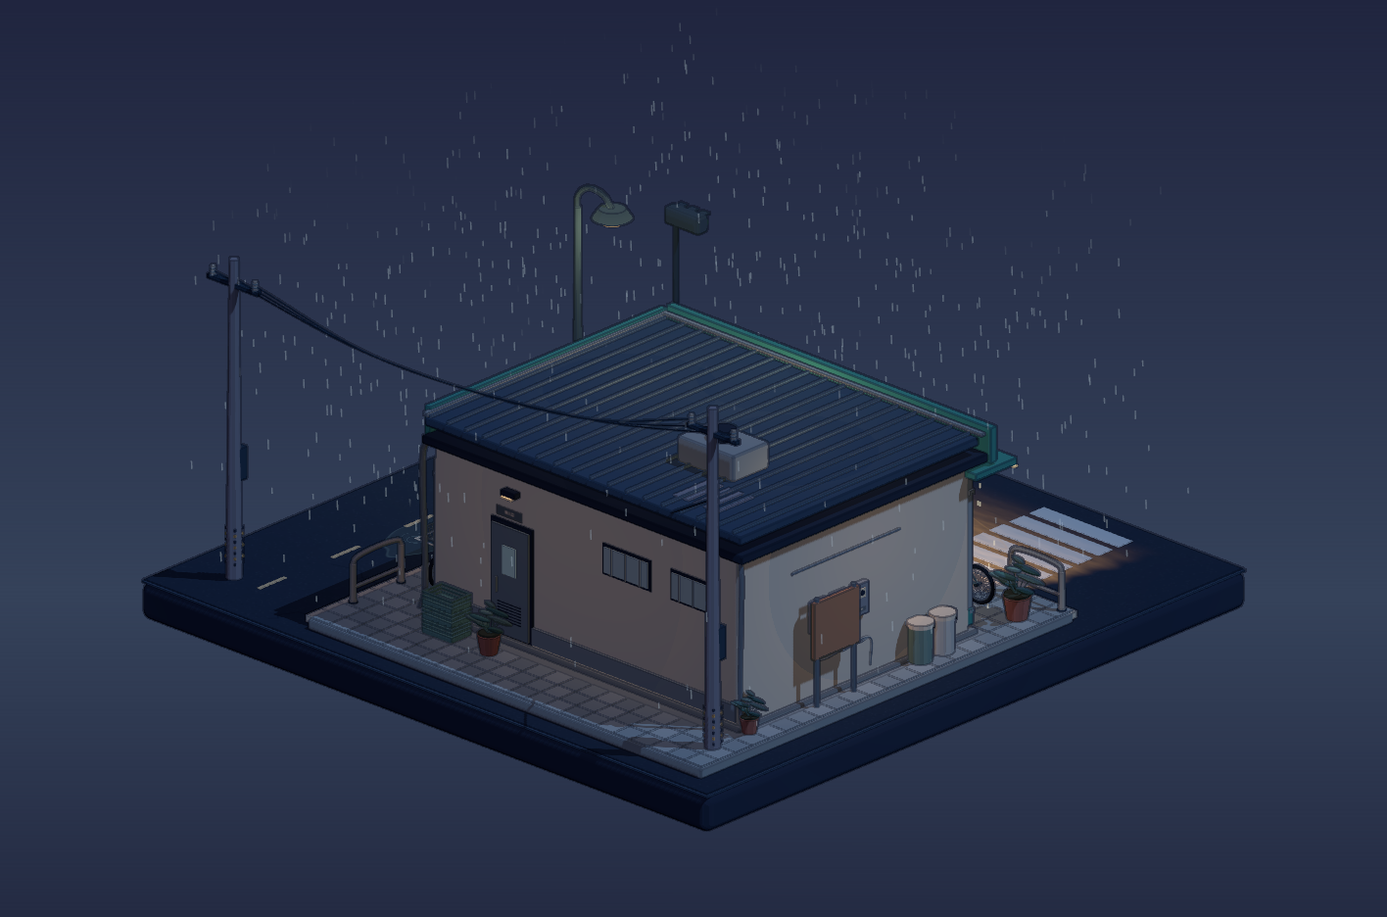
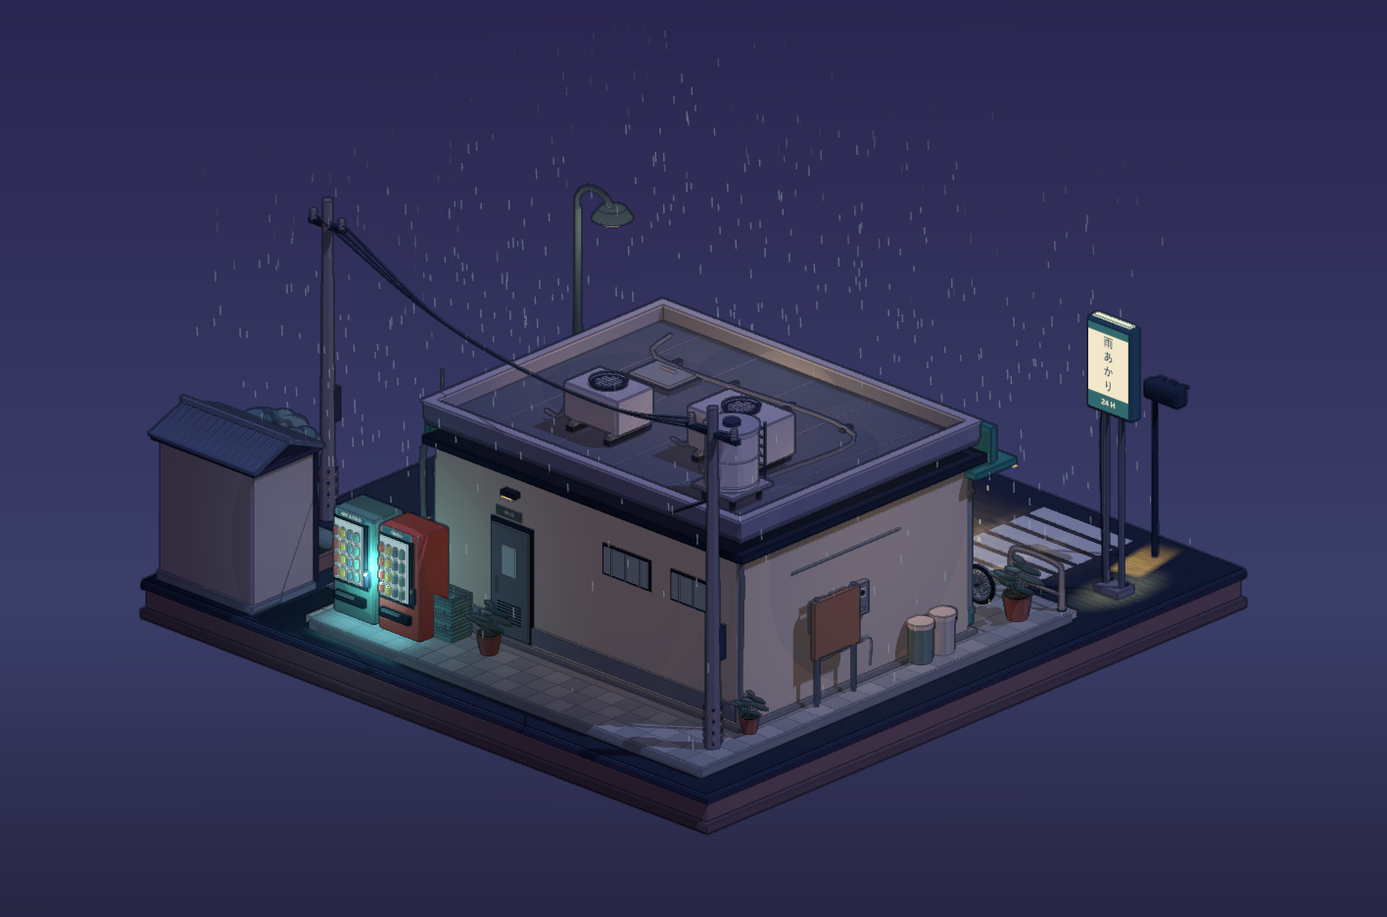
[codex] X-50 完成建模指导 4、5 与原四机位对比

diff --git a/apps/desktop/e2e/fixtures/rainy-konbini/street.js b/apps/desktop/e2e/fixtures/rainy-konbini/street.js
@@ -1,9 +1,20 @@
 import * as T from 'three';
+import { neighborhood } from './neighborhood.js';
 
 export function buildStreet(c) {
   const {root,box,cylinder,sphere,tube,rod,group,toon,glow,label,poster,mesh,canvasTexture}=c;
   const iron=toon('#293e50'), steel=toon('#6b868d'), cream=toon('#c4c4ad'), yellow=toon('#c8a668'), red=toon('#b7594e'), mint=toon('#60958b'), dark=toon('#182632'), rubber=toon('#1a2533');
-  const base=group('square-collectible-base');box(14,.72,14,0,-.36,0,toon('#263448'),base,.18);
+  const base=group('square-collectible-base');
+  box(14,.20,14,0,-.62,0,toon('#62575e'),base,.12);
+  box(13.86,.38,13.86,0,-.33,0,toon('#7a686b'),base,.065);
+  box(13.98,.14,13.98,0,-.07,0,toon('#30374e'),base,.065);
+  for(const z of [-6.94,6.94])box(13.80,.025,.025,0,-.54,z,toon('#a18b85'),base,.006);
+  for(const x of [-6.94,6.94])box(.025,.025,13.80,x,-.54,0,toon('#a18b85'),base,.006);
+  for(let i=0;i<28;i++){
+    const x=-6.55+i*.48,y=-.23-(i%3)*.075;
+    box(.10+(i%4)*.025,.033,.025,x,y,6.938,toon(i%2?'#9b8a86':'#5d5864'),base,.012);
+    box(.025,.033,.10+(i%4)*.025,6.938,y,x,toon(i%2?'#8e7c79':'#5d5864'),base,.012);
+  }
   box(13.94,.045,13.94,0,.01,0,toon('#33495d'),base,.06);
   box(13.7,.035,.055,0,-.21,6.97,toon('#607a8b'),base,.01);
   const asphalt=canvasTexture(1024,1024,(g,w,h)=>{
@@ -14,7 +25,7 @@ export function buildStreet(c) {
   const roadmat=new T.MeshToonMaterial({map:asphalt,color:'#aebccb',gradientMap:toon('#ffffff').gradientMap});
   box(13.88,.025,13.88,0,.044,0,roadmat,root,0);
   box(9.7,.21,9.65,-1.55,.14,-1.7,toon('#819292'),root,.055);
-  const pave=[toon('#879b9b'),toon('#91a4a3'),toon('#7f9395')];
+  const pave=[toon('#879b9b'),toon('#91a4a3'),toon('#7f9395')];pave.forEach(mat=>mat.userData.inkWeight=.08);
   for(let ix=0;ix<22;ix++)for(let iz=0;iz<22;iz++){
     const x=-6.15+ix*.438,z=-6.26+iz*.438;
     if(x>-5.85&&x<1.96&&z>-4.96&&z<1.45)continue;
@@ -28,10 +39,11 @@ export function buildStreet(c) {
     for(let k=0;k<4;k++)box(.024,.012,.27,-.105+k*.07,.017,0,toon('#ddc482'),g,.004);
   }
   for(let i=0;i<6;i++)box(2.2,.009,.38,-3.6,.064,3.65+i*.52,toon('#b9ccc8'),root,.012);
-  for(let i=0;i<6;i++)box(.085,.009,.70,5.15,.065,-5.5+i*1.9,toon('#c4b68a'),root,.008);
+  for(let i=0;i<5;i++)box(.085,.009,.70,5.15,.065,-3.7+i*1.9,toon('#c4b68a'),root,.008);
   const park=group('parking-bay',4.05,.066,-1.1);
   for(const x of [-.6,.6])box(.035,.008,2.4,x,0,0,cream,park,0);box(1.25,.008,.035,0,0,-1.2,cream,park,0);
   const p=label('P',.45,.55,0,.008,0,{parent:park,font:110,bg:'#364554',fg:'#c4c4ad'});p.rotation.x=-Math.PI/2;
+  for(const x of [-.34,.34]){box(.43,.11,.15,x,.045,-.94,cream,park,.035);box(.15,.013,.13,x,.106,-.94,yellow,park,.006);}
   // Recessed drainage slots and concentric iron manhole rings.
   for(let i=0;i<8;i++){
     const x=-5.4+i*1.02;box(.76,.025,.16,x,.071,3.34,dark,root,.01);for(let k=0;k<12;k++)box(.017,.016,.15,x-.34+k*.061,.087,3.34,steel,root,0);
@@ -48,8 +60,9 @@ export function buildStreet(c) {
     tube([[-.62,.75,0],[-.58,.86,0],[.58,.86,0],[.62,.75,0]],.045,cream,g);
     rod([-.62,.32,0],[.62,.32,0],.035,cream,g);
   }
-  const vending=group('illuminated-vending-machine',2.48,.27,.11);vending.rotation.y=.10;
-  box(1.03,2.05,.78,0,1.03,0,red,vending,.065);box(.84,1.29,.022,-.035,1.29,.405,dark,vending,.02);
+  function vendingMachine(x,index){
+  const vending=group('illuminated-vending-machine',x,.27,-5.62);vending.rotation.y=Math.PI;
+  box(1.03,2.05,.78,0,1.03,0,index?mint:red,vending,.065);box(.84,1.29,.022,-.035,1.29,.405,dark,vending,.02);
   box(.71,1.15,.015,-.09,1.30,.425,glow('#badce0',.72),vending,.012);
   for(let row=0;row<4;row++)for(let col=0;col<4;col++){
     const x=-.35+col*.17,y=.88+row*.26;
@@ -58,8 +71,10 @@ export function buildStreet(c) {
   }
   box(.73,.17,.12,-.04,.40,.43,dark,vending,.025);box(.44,.05,.04,-.1,.47,.50,steel,vending,.007);
   box(.13,.31,.05,.40,.92,.45,iron,vending,.01);cylinder(.03,.03,.035,.4,1.02,.49,yellow,vending,16).rotation.x=Math.PI/2;
-  label('つめたい',.74,.17,-.03,1.99,.414,{parent:vending,bg:'#295f70',fg:'#e6f2da',font:105,lit:true});
-  const vendingLight=new T.PointLight('#8cdbdf',3,5,1.9);vendingLight.position.set(2.5,1.4,1.2);root.add(vendingLight);
+  label(index?'HOT & COLD':'つめたい',.74,.17,-.03,1.99,.414,{parent:vending,bg:'#295f70',fg:'#e6f2da',font:105,lit:true});
+  }
+  vendingMachine(1.54,0);vendingMachine(2.66,1);
+  const vendingLight=new T.PointLight('#8cdbdf',3,5,1.9);vendingLight.position.set(2.1,1.4,-6.2);root.add(vendingLight);
   // Bins, umbrellas and a detailed bicycle.
   const bins=group('recycling-bins',-5.95,.28,.20);
   for(let i=0;i<2;i++){cylinder(.23,.22,.7,0,.35,-i*.57,toon(i?'#66877e':'#aab5ac'),bins,24);cylinder(.25,.25,.09,0,.73,-i*.57,cream,bins,24);box(.25,.085,.02,0,.63,.235-i*.57,dark,bins,.02);label(i?'缶':'PET',.16,.12,0,.44,.229-i*.57,{parent:bins,font:130});}
@@ -119,22 +134,23 @@ export function buildStreet(c) {
   cylinder(.25,.38,.19,-.85,4.47,0,iron,lamp,32);cylinder(.29,.22,.10,-.85,4.34,0,glow('#ffcf84',2.3),lamp,32);
   const lampLight=new T.PointLight('#ffd38d',12,9,1.8);lampLight.position.set(5.05,4.1,3.2);root.add(lampLight);
   // Two poles and sagging wires stay within the square footprint.
-  for(const [x,z,h]of[[-5.9,-5.7,6.8],[5.8,-5.8,6.2]]){
+  for(const [x,z,h,span]of[[-5.9,-5.7,6.8,1.25],[6.4,-2.75,6.2,.84]]){
     const g=group('utility-pole',x,.08,z);cylinder(.09,.15,h,0,h/2,0,toon('#777e87'),g,24);
-    box(1.25,.09,.12,0,h-.50,0,iron,g,.009);
-    for(const sx of [-.52,0,.52]){cylinder(.045,.045,.20,sx,h-.38,0,cream,g,14);for(let k=0;k<3;k++)cylinder(.065,.065,.025,sx,h-.46+k*.065,0,steel,g,16);}
+    box(span,.09,.12,0,h-.50,0,iron,g,.009);
+    for(const sx of [-span*.416,0,span*.416]){cylinder(.045,.045,.20,sx,h-.38,0,cream,g,14);for(let k=0;k<3;k++)cylinder(.065,.065,.025,sx,h-.46+k*.065,0,steel,g,16);}
     box(.25,.65,.23,0,2.2,.11,iron,g,.025);
     for(let k=0;k<7;k++)box(.25,.055,.24,0,.3+k*.11,.01,toon(k%2?'#d3aa62':'#334052'),g,.005);
   }
-  for(let i=0;i<3;i++)tube([[-6.42+i*.52,6.50,-5.7],[-2.8,5.75,-5.75],[2.3,5.4,-5.77],[5.28+i*.52,5.90,-5.8]],.014,iron,root,48);
+  for(let i=0;i<3;i++)tube([[-6.42+i*.52,6.50,-5.7],[-2.8,5.75,-5.1],[2.3,5.4,-3.9],[6.05+i*.35,5.90,-2.75]],.014,iron,root,48);
   tube([[-5.9,5.1,-5.7],[-4.8,4.45,-5.25],[-4.1,4.03,-4.9]],.021,iron,root,24);
-  const sign=group('street-name-sign',5.8,3.82,-5.75);label('灯町三丁目',1.20,.34,-.2,0,.16,{parent:sign,font:110,bg:'#365d78',fg:'#dfebdf'});
-  const stop=group('stop-sign',3.10,.26,2.05);cylinder(.028,.035,1.9,0,.95,0,steel,stop,16);
+  const sign=group('street-name-sign',6.35,3.82,-2.70);label('灯町三丁目',1.20,.34,-.2,0,.16,{parent:sign,font:110,bg:'#365d78',fg:'#dfebdf'});
+  const stop=group('stop-sign',6.48,.07,.30);cylinder(.028,.035,1.9,0,.95,0,steel,stop,16);
   const triangle=new T.Shape();triangle.moveTo(0,-.32);triangle.lineTo(.36,.27);triangle.lineTo(-.36,.27);triangle.closePath();mesh(new T.ShapeGeometry(triangle),red,[0,1.95,.03],stop);
   label('止まれ',.39,.17,0,1.98,.038,{parent:stop,font:130,bg:'#b7594e',fg:'#fff0d1'});
-  const traffic=group('traffic-signal',6.08,.07,5.93);cylinder(.048,.06,3.32,0,1.66,0,iron,traffic,20);
+  const traffic=group('traffic-signal',-5.45,.07,6.22);cylinder(.048,.06,3.32,0,1.66,0,iron,traffic,20);
   box(.87,.35,.29,-.25,3.25,0,iron,traffic,.1);
   const signalMats=['#629e93','#ba9751','#c85d5b'].map(x=>glow(x,.55));
   for(let i=0;i<3;i++){const o=cylinder(.105,.105,.035,-.52+i*.27,3.25,.17,signalMats[i],traffic,24);o.rotation.x=Math.PI/2;box(.19,.04,.16,-.52+i*.27,3.39,.17,iron,traffic,.01);}
+  neighborhood(c);
   return {signalMats,lampLight,vendingLight};
 }

diff --git a/apps/desktop/e2e/fixtures/rainy-konbini/neighborhood.js b/apps/desktop/e2e/fixtures/rainy-konbini/neighborhood.js
@@ -1,0 +1,60 @@
+import * as T from 'three';
+
+export function neighborhood(c){
+  const {root,box,cylinder,rod,tube,mesh,group,toon,glow,canvasTexture}=c;
+  const wood=toon('#7c625e'),dark=toon('#34334b'),steel=toon('#66788a'),stone=toon('#78848d');
+  // A cropped neighbouring home gives the back corner a readable second layer.
+  const home=group('neighbor-house-corner',5.55,.07,-6.0);
+  box(2.4,.18,1.68,0,.09,0,stone,home,.04);
+  box(2.33,2.57,1.56,0,1.46,0,toon('#a69a9a'),home,.025);
+  for(let i=0;i<12;i++)box(.17,.75,.055,-1.05+i*.19,.56,.80,wood,home,.008);
+  for(const x of [-1.18,1.18])box(.09,2.64,.075,x,1.48,.81,dark,home,.012);
+  box(1.32,1.08,.095,-.12,1.83,.82,wood,home,.018);
+  box(1.15,.89,.025,-.12,1.83,.878,glow('#f6d59f',.80),home,.008);
+  for(const x of [-.69,-.12,.45])box(.035,.97,.035,x,1.83,.90,dark,home,.003);
+  for(const y of [1.40,1.82,2.26])box(1.21,.035,.035,-.12,y,.90,dark,home,.003);
+  for(let i=0;i<10;i++)box(1.12,.016,.018,-.12,1.45+i*.077,.915,toon('#c3ab91',.10),home,0);
+  box(1.43,.09,.23,-.12,1.26,.91,wood,home,.012);
+  box(2.55,.11,1.78,0,2.78,0,dark,home,.02);
+  for(const side of [-1,1]){
+    const roof=box(2.64,.08,1.02,0,2.99,side*.43,toon('#52647a'),home,.025);roof.rotation.x=side*.36;
+    for(let i=0;i<15;i++)tube([[-1.22+i*.174,2.83,side*.91],[-1.22+i*.174,3.02,side*.46],[-1.22+i*.174,3.21,0]],.018,steel,home,8);
+  }
+  box(2.71,.10,.12,0,3.22,0,steel,home,.028);
+  tube([[1.22,2.73,.80],[1.28,2.6,.83],[1.28,.16,.83]],.034,steel,home);
+  // Low boundary, stepping stones and planted corner leave the road usable.
+  const garden=group('neighbor-garden',5.80,.07,-4.43);
+  box(1.91,.17,1.17,0,.085,0,stone,garden,.04);
+  box(1.73,.04,1.00,0,.19,0,toon('#3d4548'),garden,.03);
+  for(const x of [-.94,.94])box(.12,.29,1.18,x,.17,0,wood,garden,.016);
+  box(1.94,.29,.12,0,.17,.54,wood,garden,.016);
+  for(let i=0;i<5;i++)box(.35,.035,.32,4.17,.08,-4.8+i*.33,toon(i%2?'#91979e':'#788894'),root,.045);
+  for(let i=0;i<13;i++){
+    const x=4.62+i*.17;box(.105,.76,.07,x,.48,-5.01,wood,root,.018);
+  }
+  for(const y of [.28,.67])box(2.19,.055,.08,5.64,y,-5.055,dark,root,.01);
+  const tree=group('rainy-neighborhood-tree',.16,.22,-.05,garden);
+  const bark=toon('#6c5855');tube([[0,0,0],[.05,.72,.02],[-.09,1.28,0],[.02,1.95,.04]],.082,bark,tree,18);
+  for(let i=0;i<7;i++){const a=i*2.4;rod([0,.82+i*.10,0],[Math.cos(a)*.42,1.75+i*.09,Math.sin(a)*.35],.027,bark,tree);}
+  const leaves=['#4e7779','#6a8c87','#577e83','#759995'].map(color=>toon(color));
+  for(let i=0;i<48;i++){
+    const a=i*2.3999,r=.18+.48*Math.sqrt((i%13)/13),y=1.93+Math.sin(i*1.7)*.34;
+    const leaf=mesh(new T.SphereGeometry(.23,18,12),leaves[i%4],[Math.cos(a)*r,y,Math.sin(a)*r*.72],tree);
+    leaf.scale.set(1,.72,1.18);leaf.rotation.y=a;
+  }
+  for(let i=0;i<9;i++){const bush=mesh(new T.SphereGeometry(.23,16,12),leaves[(i+1)%4],[-.68+i*.16,.42,.28],garden);bush.scale.set(1,.8,.85);}
+  // A slim illuminated pylon balances the utility poles without covering glass.
+  const pylon=group('convenience-store-pylon',-6.03,.07,4.55);
+  box(.62,.15,.46,0,.075,0,stone,pylon,.055);
+  for(const x of [-.19,.19]){box(.085,3.82,.085,x,1.99,0,steel,pylon,.018);cylinder(.05,.05,.035,x,.17,.12,dark,pylon,16);}
+  box(1.12,1.80,.28,0,4.38,0,toon('#386a78'),pylon,.07);
+  const face=canvasTexture(512,896,(g,w,h)=>{
+    g.fillStyle='#f3e7c9';g.fillRect(0,0,w,h);g.fillStyle='#32696d';g.fillRect(0,0,w,78);g.fillRect(0,h-170,w,170);
+    g.fillStyle='#315567';g.textAlign='center';g.textBaseline='middle';g.font='700 126px "Yu Gothic",Meiryo,sans-serif';
+    [...'雨あかり'].forEach((ch,i)=>g.fillText(ch,w/2,157+i*155));
+    g.fillStyle='#f3e7c9';g.font='700 76px sans-serif';g.fillText('24 H',w/2,h-82);
+  });
+  for(const side of [-1,1]){const panel=mesh(new T.PlaneGeometry(.98,1.64),new T.MeshBasicMaterial({map:face,toneMapped:false}),[0,4.38,side*.148],pylon);if(side<0)panel.rotation.y=Math.PI;}
+  box(.93,.04,.16,0,5.30,0,glow('#d9e7cf',1.05),pylon,.01);
+  tube([[.22,.15,-.05],[.22,3.55,-.05],[0,3.63,-.12]],.014,dark,pylon);
+}

diff --git a/apps/desktop/e2e/fixtures/rainy-konbini/roof.js b/apps/desktop/e2e/fixtures/rainy-konbini/roof.js
@@ -1,0 +1,38 @@
+import * as T from 'three';
+
+export function buildRoof(c,parent){
+  const {box,cylinder,rod,tube,mesh,group,toon,label}=c;
+  const roof=group('flat-roof-services',-1.95,4.02,-1.84,parent);
+  const concrete=toon('#727f99'),cap=toon('#9ba6b5'),iron=toon('#34425a'),steel=toon('#8595a4'),dark=toon('#25344b');
+  box(7.80,.16,6.18,0,0,0,toon('#526175'),roof,.045);
+  for(const z of [-3.03,3.03]){box(7.84,.31,.15,0,.19,z,concrete,roof,.025);box(7.9,.055,.21,0,.37,z,cap,roof,.018);}
+  for(const x of [-3.84,3.84]){box(.15,.31,5.96,x,.19,0,concrete,roof,.025);box(.21,.055,5.99,x,.37,0,cap,roof,.018);}
+  for(let i=0;i<5;i++)box(.028,.006,5.8,-2.9+i*1.42,.084,0,toon('#64718a'),roof,0);
+  // Two condensers have visible feet, fan blades, protective grilles and fins.
+  for(const [x,z,w,h,d]of[[-1.6,-.65,1.65,.80,1.1],[1.05,-1.3,1.35,.70,.94]]){
+    const unit=group('roof-condenser',x,.10,z,roof);
+    for(const sx of [-w*.34,w*.34]){box(.15,.10,d+.15,sx,.05,0,dark,unit,.014);box(.12,.09,d+.09,sx,.13,0,steel,unit,.008);}
+    box(w,h,d,0,.20+h/2,0,toon('#a3b1bc'),unit,.045);
+    for(let i=0;i<12;i++)box(w*.78,.022,.026,0,.29+i*(h-.15)/12,d/2+.018,dark,unit,.005);
+    for(const sx of [-w*.44,w*.44])box(.034,h*.78,.032,sx,.20+h/2,d/2+.026,steel,unit,.004);
+    cylinder(.34,.34,.025,0,h+.22,0,dark,unit,48);
+    for(let i=0;i<7;i++){const a=i*Math.PI*2/7;const blade=box(.13,.018,.25,Math.sin(a)*.12,h+.245,Math.cos(a)*.12,steel,unit,.025);blade.rotation.y=a+.45;}
+    cylinder(.075,.075,.035,0,h+.26,0,cap,unit,24);
+    const ring=mesh(new T.TorusGeometry(.34,.018,8,48),iron,[0,h+.28,0],unit);ring.rotation.x=Math.PI/2;
+    for(let i=-3;i<=3;i++){const half=Math.sqrt(.32*.32-(i*.08)**2);rod([-half,h+.29,i*.08],[half,h+.29,i*.08],.007,iron,unit);}
+    label('室外機',.34,.12,w*.26,.32,d/2+.034,{parent:unit,font:100,bg:'#627485',fg:'#dbe4e0'});
+    tube([[w/2,.48,0],[w/2+.20,.48,0],[w/2+.20,.12,-.35],[w/2+.55,.12,-.35]],.034,cap,unit);
+  }
+  const tank=group('roof-water-tank',-2.65,.10,-2.0,roof);
+  for(const x of [-.34,.34])for(const z of [-.34,.34])box(.08,.28,.08,x,.14,z,iron,tank,.008);
+  box(1.04,.08,1.04,0,.28,0,steel,tank,.025);
+  cylinder(.48,.48,1.08,0,.86,0,toon('#b3bfc5'),tank,48);
+  cylinder(.51,.51,.08,0,1.42,0,cap,tank,48);cylinder(.16,.16,.07,0,1.49,0,iron,tank,24);
+  for(const y of [.40,.89,1.36]){const ring=mesh(new T.TorusGeometry(.484,.016,8,48),steel,[0,y,0],tank);ring.rotation.x=Math.PI/2;}
+  tube([[.42,.48,0],[.70,.48,0],[.77,.32,0],[.77,.10,1.8],[2.55,.10,1.8]],.044,cap,tank);
+  for(const x of [-.28,.28])rod([x,.10,.56],[x,1.38,.56],.017,iron,tank);
+  for(let i=0;i<7;i++)rod([-.28,.18+i*.18,.57],[.28,.18+i*.18,.57],.014,iron,tank);
+  tube([[-2.5,.14,-.9],[-2.5,.14,1.35],[-1.8,.14,1.65],[2.8,.14,1.65],[3.1,.14,2.45]],.032,steel,roof);
+  for(const x of [-2,-.6,.8,2.2])box(.12,.10,.25,x,.10,1.65,iron,roof,.01);
+  const hatch=group('roof-access-hatch',1.9,.12,1.0,roof);box(1.1,.11,.85,0,0,0,iron,hatch,.035);box(.98,.05,.72,0,.075,0,toon('#768997'),hatch,.02);rod([-.18,.12,.15],[.18,.12,.15],.022,cap,hatch);
+}

diff --git a/apps/desktop/e2e/fixtures/rainy-konbini/main.js b/apps/desktop/e2e/fixtures/rainy-konbini/main.js
@@ -10,7 +10,7 @@ import { buildStreet } from './street.js';
 import { weather } from './weather.js';
 import { ToonOutlinePass } from './outline.js';
 
-const scene=new T.Scene();scene.fog=new T.Fog('#263348',30,68);
+const scene=new T.Scene();scene.fog=new T.Fog('#343052',30,68);
 const renderer=new T.WebGLRenderer({antialias:true,powerPreference:'high-performance'});
 renderer.setPixelRatio(Math.min(devicePixelRatio,1.5));renderer.setSize(innerWidth,innerHeight);
 renderer.shadowMap.enabled=true;renderer.shadowMap.type=T.PCFSoftShadowMap;
@@ -20,9 +20,9 @@ const camera=new T.OrthographicCamera(-10,10,9,-9,.1,100);camera.position.set(18
 const controls=new OrbitControls(camera,renderer.domElement);controls.target.set(0,2.30,0);controls.enableDamping=true;controls.dampingFactor=.075;
 controls.minZoom=.65;controls.maxZoom=4;controls.minPolarAngle=.22;controls.maxPolarAngle=1.47;controls.maxTargetRadius=7;controls.rotateSpeed=.65;controls.zoomSpeed=.8;controls.panSpeed=.7;controls.update();
 const c=craft(scene);
-scene.background=c.canvasTexture(2,512,(g,w,h)=>{const gradient=g.createLinearGradient(0,0,0,h);gradient.addColorStop(0,'#20253f');gradient.addColorStop(.65,'#35425a');gradient.addColorStop(1,'#242b43');g.fillStyle=gradient;g.fillRect(0,0,w,h);});
-const hemi=new T.HemisphereLight('#9facdf','#242c43',.60);scene.add(hemi);
-const moon=new T.DirectionalLight('#9db8eb',1.35);moon.position.set(-7,13,5);moon.castShadow=true;
+scene.background=c.canvasTexture(2,512,(g,w,h)=>{const gradient=g.createLinearGradient(0,0,0,h);gradient.addColorStop(0,'#2a2550');gradient.addColorStop(.65,'#3b3f6a');gradient.addColorStop(1,'#272543');g.fillStyle=gradient;g.fillRect(0,0,w,h);});
+const hemi=new T.HemisphereLight('#b2a5e5','#312641',.60);scene.add(hemi);
+const moon=new T.DirectionalLight('#aba9e5',1.35);moon.position.set(-7,13,5);moon.castShadow=true;
 moon.shadow.mapSize.set(2048,2048);moon.shadow.camera.left=-11;moon.shadow.camera.right=11;moon.shadow.camera.top=11;moon.shadow.camera.bottom=-11;moon.shadow.camera.far=35;moon.shadow.normalBias=.035;moon.shadow.bias=-.0003;scene.add(moon);
 const rim=new T.DirectionalLight('#9a8dc3',.45);rim.position.set(9,8,-8);scene.add(rim);
 const street=buildStreet(c),shop=buildStore(c);

diff --git a/apps/desktop/e2e/fixtures/rainy-konbini/store.js b/apps/desktop/e2e/fixtures/rainy-konbini/store.js
@@ -1,4 +1,5 @@
 import * as T from 'three';
+import { buildRoof } from './roof.js';
 
 export function buildStore(c) {
   const {root,box,cylinder,sphere,tube,rod,group,toon,glow,label,poster,mesh}=c;
@@ -8,7 +9,8 @@ export function buildStore(c) {
   const shop=group('convenience-store');
   box(7.7,.22,6.2,-1.95,.22,-1.8,toon('#7b8b8b'),shop,.06);
   box(7.3,.04,5.8,-1.95,.35,-1.8,warm,shop,0);
-  for(let x=-5.35;x<1.6;x+=.6)for(let z=-4.55;z<1.15;z+=.6)box(.58,.009,.58,x,.38,z,toon((Math.round(x*5+z*5)%3)?'#cfc5aa':'#bcbca6',.18),shop,0);
+  const floorMats=[toon('#cfc5aa',.18),toon('#bcbca6',.18)];floorMats.forEach(mat=>mat.userData.inkWeight=.08);
+  for(let x=-5.35;x<1.6;x+=.6)for(let z=-4.55;z<1.15;z+=.6)box(.58,.009,.58,x,.38,z,floorMats[(Math.round(x*5+z*5)%3)?0:1],shop,0);
   box(7.45,3.25,.17,-1.95,1.96,-4.74,cream,shop);
   box(.17,3.25,5.9,-5.65,1.96,-1.85,cream,shop);
   box(7.5,.32,.2,-1.95,.55,1.17,trim,shop);
@@ -38,14 +40,7 @@ export function buildStore(c) {
   label('24',.68,.47,1.05,3.88,1.63,{bg:'#e7bc75',fg:'#264f59',sub:'OPEN',font:130,lit:true,parent:shop});
   box(.15,.69,6.14,2.02,3.88,-1.7,trim,shop,.025);
   const side=label('雨あかり',3.9,.50,2.107,3.87,-1.7,{bg:'#2b6466',fg:'#fff2c2',sub:'OPEN 24 HOURS',font:105,lit:true,parent:shop});side.rotation.y=Math.PI/2;
-  box(7.8,.18,6.18,-1.95,4.0,-1.84,toon('#2f485f'),shop,.06);
-  for(let i=0;i<18;i++)box(.045,.065,6.15,-5.65+i*.44,4.12,-1.84,toon('#47657a'),shop,.012);
-  box(7.98,.06,.12,-1.95,4.15,1.27,metal,shop,.014);
-  box(.12,.08,6.2,1.94,4.13,-1.82,metal,shop,.015);
-  box(1.4,.52,.94,-3.4,4.35,-2.8,metal,shop,.06);
-  for(let n=0;n<10;n++)box(1.25,.025,.028,-3.4,4.18+n*.035,-2.31,dark,shop,0);
-  cylinder(.24,.25,.20,-3.4,4.70,-2.8,dark,shop,36);
-  for(let n=0;n<5;n++)box(.13,.02,.92,-4.8+n*.25,4.13,-4.0,toon('#667686'),shop,.005);
+  buildRoof(c,shop);
   tube([[1.9,3.6,-4.8],[2.06,3.45,-4.8],[2.06,.5,-4.8],[2.2,.22,-4.8]],.055,metal,shop);
   // The reverse side remains a finished service alley when the miniature is rotated.
   const service=group('rear-service-entrance',-.15,.38,-4.84,shop);service.rotation.y=Math.PI;

diff --git a/apps/desktop/e2e/fixtures/rainy-konbini/light-pools.js b/apps/desktop/e2e/fixtures/rainy-konbini/light-pools.js
@@ -17,14 +17,21 @@ export function paintedLightPools(scene, time) {
       return mix(mix(hash(i),hash(i+vec2(1,0)),f.x),mix(hash(i+vec2(0,1)),hash(i+vec2(1,1)),f.x),f.y);}
     void main(){
       if(abs(vWorld.x)>6.91||abs(vWorld.z)>6.91)discard;
-      bool onPaving=vWorld.x>-6.4&&vWorld.x<3.3&&vWorld.z>-6.525&&vWorld.z<3.125;
+      bool onPaving=vWorld.x>-6.4&&vWorld.x<3.475&&vWorld.z>-6.525&&vWorld.z<3.235;
       if(onPaving!=(sidewalk>.5))discard;
       vec2 q=vec2(vUv.x*2.-1.,1.-vUv.y);
       q.x+=sin(q.y*63.+time*1.3)*.012+sin(q.y*29.-time*.7)*.009;
       float mask;
       if(shape<.5){
-        float width=.64+.32*q.y;
-        mask=(1.-smoothstep(width-.15,width,abs(q.x)))*smoothstep(0.,.09,q.y)*(1.-smoothstep(.20,1.,q.y));
+        float width=.64+.34*q.y;
+        float lengthFade=smoothstep(0.,.08,q.y)*(1.-smoothstep(.08,1.,q.y));
+        float spread=1.-smoothstep(.16,width,abs(q.x));
+        float streaks=0.;
+        for(int i=0;i<4;i++){
+          float center=-.53+float(i)*.34+q.y*.065;
+          streaks+=exp(-pow((q.x-center)/(.022+.022*q.y),2.));
+        }
+        mask=(spread*.68+streaks*.78)*lengthFade;
       }else if(shape<1.5){
         mask=1.-smoothstep(.12,1.,length(vec2(q.x,(q.y-.5)*2.)));
       }else{
@@ -52,9 +59,10 @@ export function paintedLightPools(scene, time) {
     pools.push({name,x,z,width,length});
     return tint;
   }
-  pool('shop-amber-fan',-1.90,3.86,7.8,5.3,'#f8bd75',.66,0);
+  pool('shop-amber-fan',-1.90,3.86,7.8,5.3,'#f6d5a8',.56,0);
   pool('streetlamp-warm-pool',5.03,3.55,3.35,4.2,'#f3c17c',.52,1);
-  pool('vending-cyan-reflection',2.54,2.20,1.65,3.3,'#6acbd5',.54,2);
-  const signal=pool('signal-changing-streak',5.75,5.40,.82,2.65,'#69c5a4',.32,2,.20);
+  pool('vending-cyan-reflection',2.10,-6.27,2.65,1.1,'#6acbd5',.54,2,Math.PI);
+  pool('pylon-soft-reflection',-6.03,4.65,1.45,2.7,'#ced7b5',.22,1);
+  const signal=pool('signal-changing-streak',-5.45,6.0,.82,1.65,'#69c5a4',.32,2,.20);
   return {group,pools,signal,time};
 }

diff --git a/apps/desktop/e2e/fixtures/rainy-konbini/craft.js b/apps/desktop/e2e/fixtures/rainy-konbini/craft.js
@@ -15,6 +15,7 @@ export function craft(scene) {
   }
   function glow(color, power = 1) { return new T.MeshBasicMaterial({ color: new T.Color(color).multiplyScalar(power), toneMapped: false }); }
   function mesh(geometry, material, xyz, parent = root, name = '') {
+    if(!geometry.hasAttribute('inkWeight'))geometry.setAttribute('inkWeight',new T.BufferAttribute(new Float32Array(geometry.attributes.position.count).fill(1),1));
     const m = new T.Mesh(geometry, material); m.position.set(...xyz); m.castShadow = true; m.receiveShadow = true; m.name = name; parent.add(m); return m;
   }
   function box(w,h,d,x,y,z,mat,parent=root,r=.025) {
@@ -66,7 +67,9 @@ export function craft(scene) {
     root.traverse(o=>{
       if(!o.isMesh||o.material.transparent||o.userData.dynamic||o.isReflector)return;
       for(let p=o.parent;p&&p!==root;p=p.parent)if(p.userData.dynamic)return;
-      const g=(o.geometry.index?o.geometry.toNonIndexed():o.geometry.clone()).applyMatrix4(o.matrixWorld);const list=batches.get(o.material)??[];list.push(g);batches.set(o.material,list);remove.push(o);
+      const g=(o.geometry.index?o.geometry.toNonIndexed():o.geometry.clone()).applyMatrix4(o.matrixWorld);
+      if(o.material.userData.inkWeight!==undefined)g.setAttribute('inkWeight',new T.BufferAttribute(new Float32Array(g.attributes.position.count).fill(o.material.userData.inkWeight),1));
+      const list=batches.get(o.material)??[];list.push(g);batches.set(o.material,list);remove.push(o);
     });
     for(const o of remove)o.removeFromParent();
     for(const [mat,gs] of batches){const m=mesh(mergeGeometries(gs,false),mat,[0,0,0]);m.name='static-'+mat.uuid;gs.forEach(g=>g.dispose());}

diff --git a/apps/desktop/e2e/fixtures/rainy-konbini/outline.js b/apps/desktop/e2e/fixtures/rainy-konbini/outline.js
@@ -13,6 +13,13 @@ export class ToonOutlinePass extends Pass {
       depthTexture: new T.DepthTexture(1, 1, T.UnsignedIntType)
     });
     this.normalMaterial = new T.MeshNormalMaterial();
+    this.normalMaterial.onBeforeCompile=shader=>{
+      shader.vertexShader='attribute float inkWeight; varying float vInkWeight;\n'+shader.vertexShader;
+      shader.vertexShader=shader.vertexShader.replace('#include <begin_vertex>','#include <begin_vertex>\nvInkWeight=inkWeight;');
+      shader.fragmentShader='varying float vInkWeight;\n'+shader.fragmentShader;
+      shader.fragmentShader=shader.fragmentShader.replace('diffuseColor.a );','vInkWeight );').replace('gl_FragColor.a = 1.0;','gl_FragColor.a = vInkWeight;');
+    };
+    this.normalMaterial.customProgramCacheKey=()=> 'konbini-normal-ink-weight';
     this.excluded = [];
     scene.traverse(object => {
       if (object.isLine || object.isPoints || object.isReflector ||
@@ -46,7 +53,7 @@ export class ToonOutlinePass extends Pass {
           vec4 sx=-a-2.*d-g+c+2.*f+i,sy=a+2.*b+c-g-2.*h-i;
           float normalEdge=smoothstep(.55,1.30,sqrt(dot(sx.xyz,sx.xyz)+dot(sy.xyz,sy.xyz)));
           float depthEdge=smoothstep(.0035,.009,length(vec2(sx.w,sy.w)));
-          float edge=max(normalEdge*.70,depthEdge);
+          float edge=max(normalEdge*.70*texture2D(tNormal,vUv).a,depthEdge);
           vec4 color=texture2D(tDiffuse,vUv);
           // Never brighten dark roof/wire silhouettes with the ink colour.
           gl_FragColor=vec4(mix(color.rgb,min(color.rgb*.45,ink),edge*.82),color.a);

diff --git a/apps/desktop/e2e/fixtures/rainy-konbini/puddles.js b/apps/desktop/e2e/fixtures/rainy-konbini/puddles.js
@@ -13,7 +13,7 @@ export function clusteredPuddles(scene,time,random) {
     {name:'warm-shop-puddle',x:-1.30,z:4.60,rx:2.15,rz:.69,y:.078,color:'#dbad78',count:10},
     {name:'warm-lamp-puddle',x:4.94,z:3.82,rx:1.15,rz:.87,y:.078,color:'#d9b47f',count:7},
     {name:'cool-side-puddle',x:4.53,z:-1.70,rx:.72,rz:1.68,y:.078,color:'#739db8',count:6},
-    {name:'cyan-vending-puddle',x:2.83,z:2.16,rx:.40,rz:.43,y:.280,color:'#78bdc6',count:3},
+    {name:'cyan-vending-puddle',x:2.10,z:-6.29,rx:.88,rz:.19,y:.280,color:'#78bdc6',count:3},
     {name:'cool-front-puddle',x:1.92,z:6.06,rx:1.28,rz:.38,y:.078,color:'#739db8',count:4}
   ];
   const group=new T.Group();group.name='clustered-puddles';scene.add(group);
